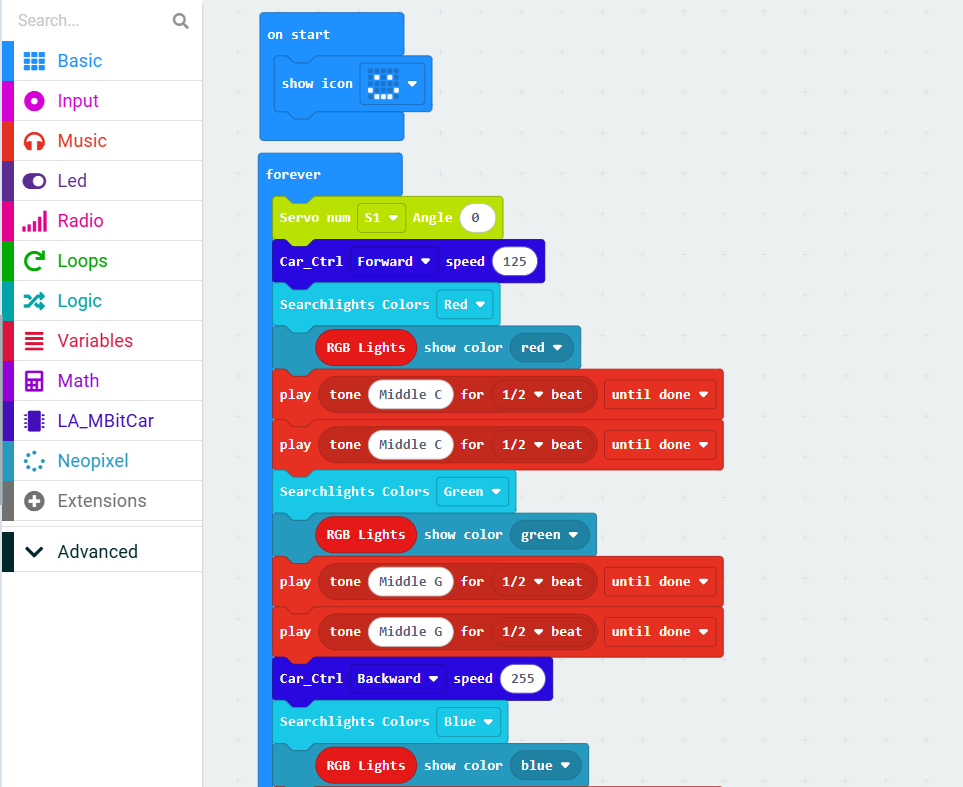
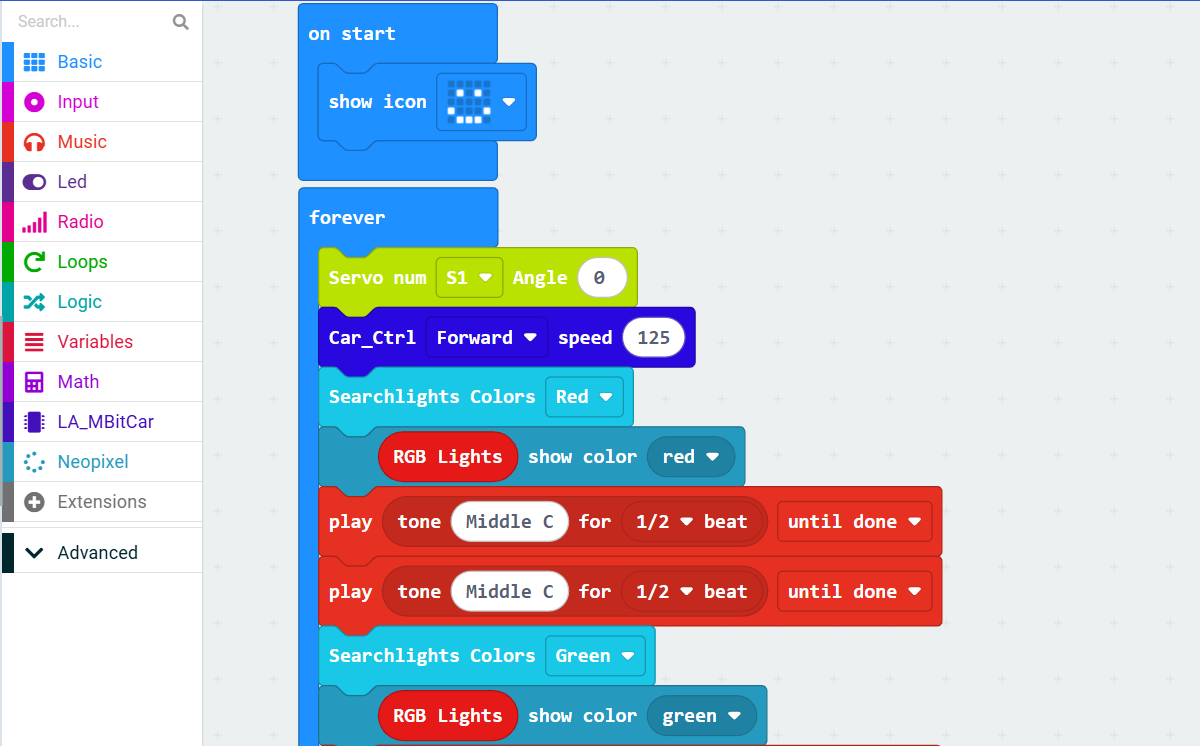
21

diff --git a/docs/source/Upload Code/Forklift Advanced.rst b/docs/source/Upload Code/Forklift Advanced.rst
@@ -53,6 +53,21 @@ makecode图形化程序截图:
    :width: 80%
 
 
+.. figure:: ./img/集成演示V1C6.png
+   :align: center
+   :width: 80%
+
+
+.. figure:: ./img/集成演示V1C7.png
+   :align: center
+   :width: 80%
+
+
+.. figure:: ./img/集成演示V1C8.png
+   :align: center
+   :width: 80%
+
+
 13. Infrared Remote Control
 --------------
 效果：小车前部可选装了一个红外接收模块，可以通过编程控制小车接收红外遥控器的信号，并根据不同的按键来控制小车的行驶方向和速度，实现遥控的效果。（同样综合了前面的部分教程）
